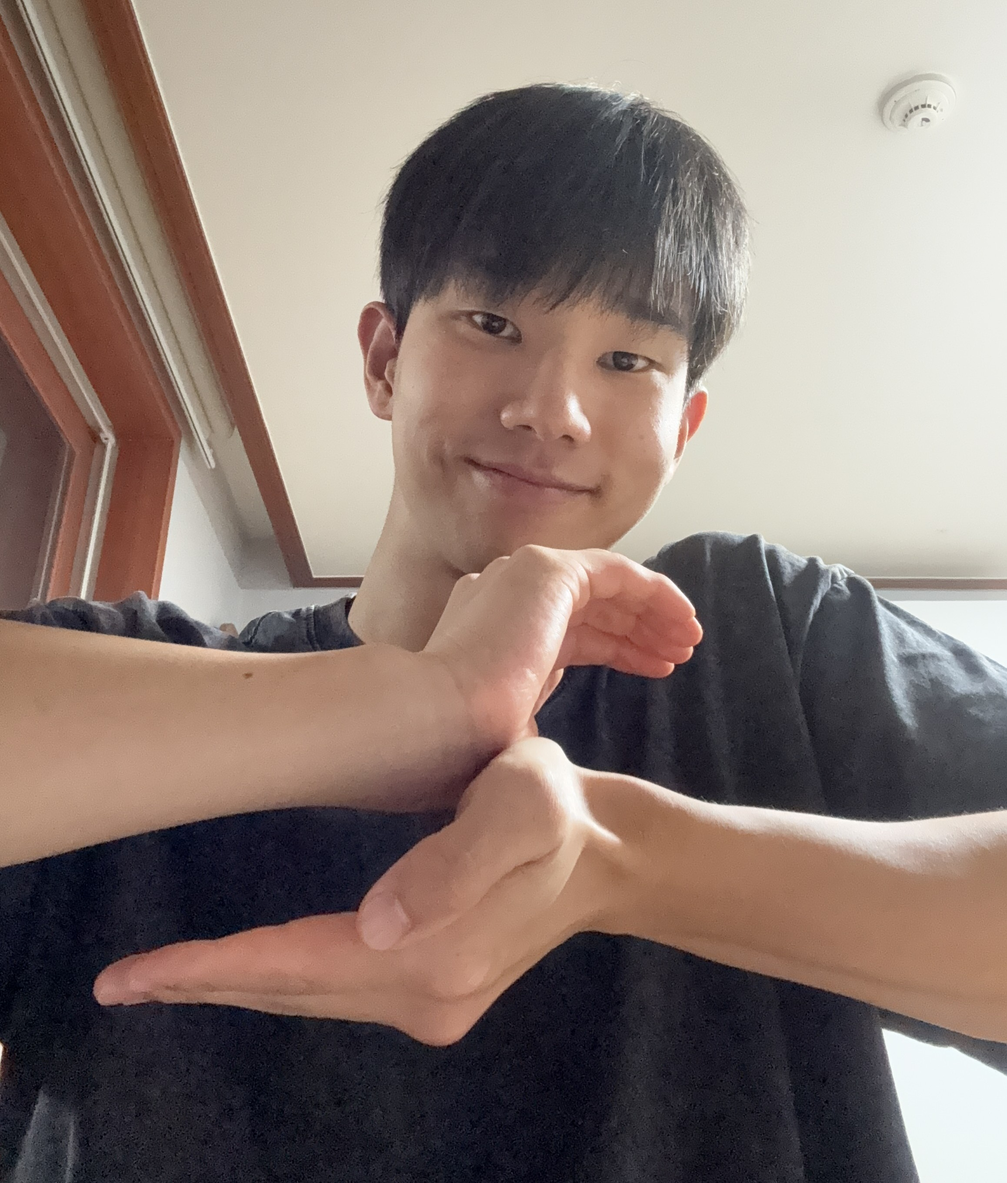
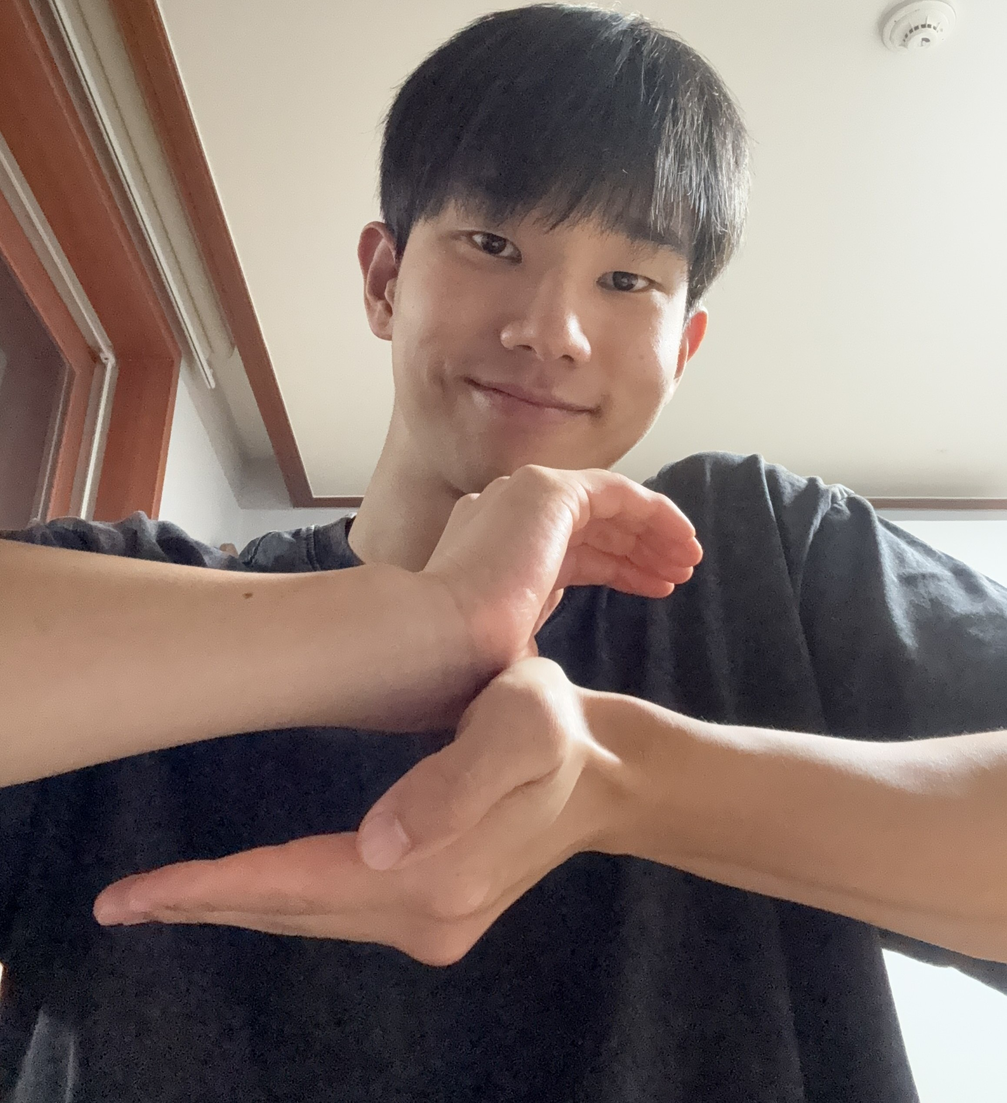
Update stage 11 first question image

diff --git a/index.html b/index.html
@@ -2271,7 +2271,7 @@
           answer: "STAY",
           inputMode: "latin",
           photos: [
-            "./assets/images/stage11_photo1.jpg?v=2",
+            "./assets/images/stage11_photo1.jpg?v=3",
             "./assets/images/stage11_photo2.jpg?v=1",
             "./assets/images/stage11_photo3.jpg?v=1",
             "./assets/images/stage11_photo4.jpg?v=1",
